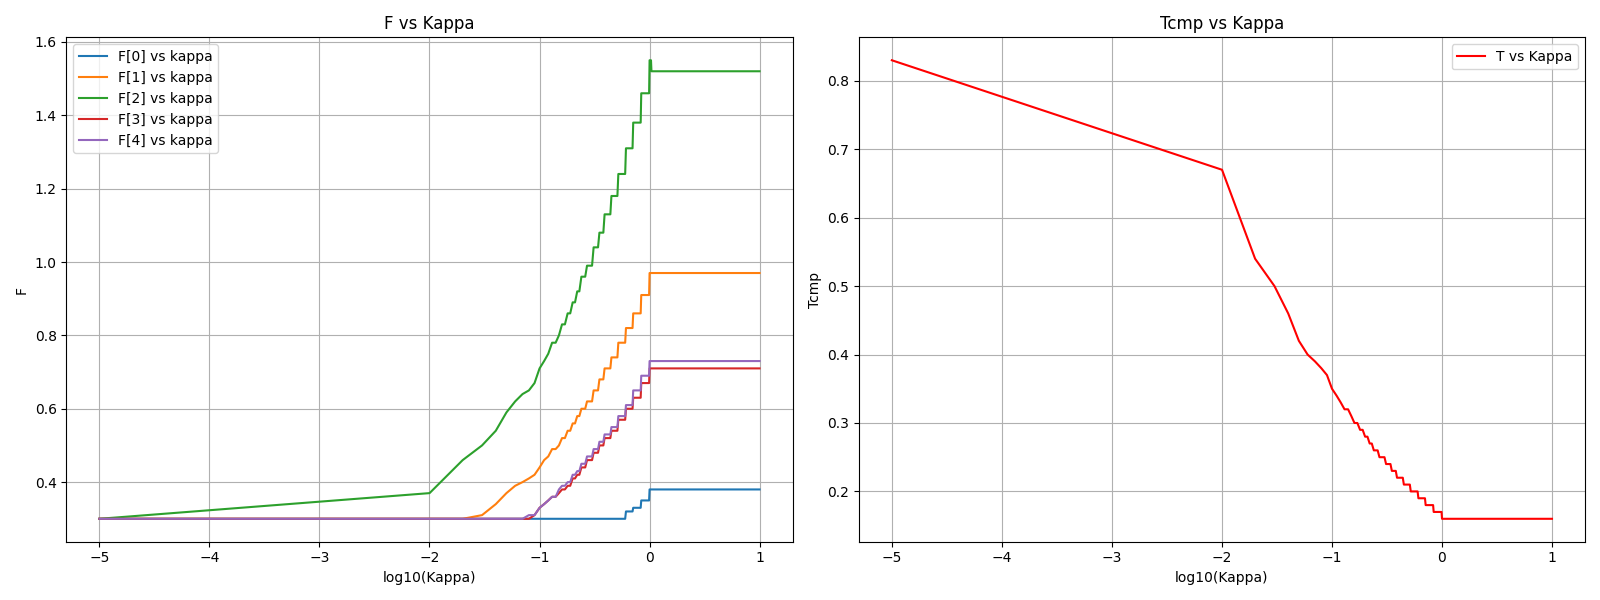
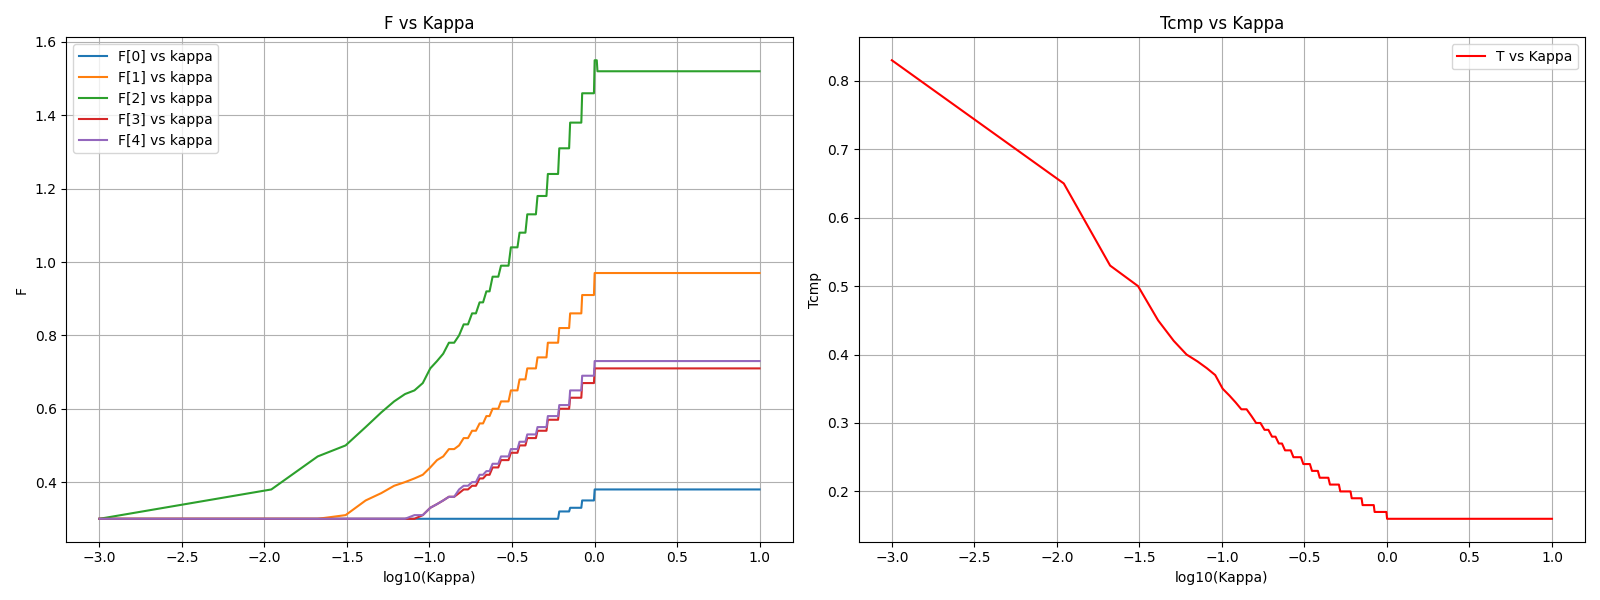
inicio correcao sub2

diff --git a/analisys.py b/analisys.py
@@ -37,26 +37,25 @@ def plot_sub1(df_sub1):
 
 
 def plot_sub2(df_sub2):
-    plt.figure(figsize=(10, 6))
+    fig,(ax1,ax2)=plt.subplots(1, 2, figsize=(16, 6))
     t_array = np.array(df_sub2['t'].tolist())  # shape: (len(kappa), n_ues)
 
     for i in range(t_array.shape[1]):
-        plt.plot(np.log10(df_sub2['kappa']), t_array[:, i], label=f't[{i}] vs kappa')
-    plt.xlabel('Kappa')
-    plt.ylabel('t')
-    plt.title('t vs Kappa')
-    plt.legend()
-    plt.grid()
-    plt.figure(4, figsize=(10, 6))
+        ax1.plot(np.log10(df_sub2['kappa']), t_array[:, i], label=f't[{i}] vs kappa')
+    ax1.set_xlabel('Kappa')
+    ax1.set_ylabel('t')
+    ax1.set_title('t vs Kappa')
+    ax1.legend()
+    ax1.grid()
     #Plot Tcom x log10(k)
-    plt.plot(np.log10(df_sub2['kappa']), df_sub2['Tcom'], label='T vs Kappa')
-    plt.xlabel('Kappa')
-    plt.ylabel('Tcom')
-    plt.title('Tcom vs Kappa')
-    plt.legend()
-    plt.grid()
+    ax2.plot(np.log10(df_sub2['kappa']), df_sub2['Tcom'], label='T vs Kappa')
+    ax2.set_xlabel('Kappa')
+    ax2.set_ylabel('Tcom')
+    ax2.set_title('Tcom vs Kappa')
+    ax2.legend()
+    ax2.grid()
     # Ajusta o layout para evitar sobreposição de títulos e eixos
     plt.tight_layout()
-
-    # Salva a figura em um arquivo
     plt.savefig('sub_2.png')
+    plt.show()
+    

diff --git a/teste.py b/teste.py
@@ -1,7 +1,34 @@
+import constants as ctt
 import numpy as np
 
-a=np.array([1,2,3,5,6])
-b=np.array([1,2,3,4,5])*(-1)
-mask=a>3
-a[mask]=b[mask]
-print(a)
+np.random.seed(42)
+#pos
+d=np.random.uniform(*ctt.d_range,size=ctt.N)
+
+#Com
+# --- CORREÇÕES DE UNIDADE ---
+# Converte a largura de banda B de MHz para Hz
+B = ctt.B * 1e6
+# Usa o valor de sigma para N0, que já está em Watts, conforme o artigo
+N0 = ctt.sigma
+# Converte o ganho do canal g0 de dB para escala linear
+g0_linear = 10**(ctt.g0 / 10)
+# Converte o tamanho do update 's' de KB para nats (conforme especificado no artigo)
+# O artigo menciona s_n = 25,000 nats, que é ~4.5 KB
+s_nats = 25000
+# -------------------------
+
+pmin=ctt.p_range[0]*np.ones(ctt.N)
+pmax=ctt.p_range[1]*np.ones(ctt.N)
+
+# Calcula h usando o g0 em escala linear
+h=g0_linear*(ctt.d0/d)**4
+# Define s como um array numpy em nats
+s=s_nats*np.ones(ctt.N)
+
+
+#Cmp
+D=np.random.uniform(*ctt.D_range,size=ctt.N)*10**6  # Convert MB to bits
+c=np.random.uniform(*ctt.c_range,size=ctt.N)
+fmin=ctt.fmin*np.ones(ctt.N) * 10**9  # GHz to Hz
+fmax=np.random.uniform(*ctt.fmax_range,size=ctt.N)*10**9  # GHz to Hz

diff --git a/inputs.py b/inputs.py
@@ -6,15 +6,20 @@ np.random.seed(42)
 d=np.random.uniform(*ctt.d_range,size=ctt.N)
 
 #Com
-B=ctt.B
+B=ctt.B*1e6  # Convert MHz to Hz
 pmin=ctt.p_range[0]*np.ones(ctt.N)
 pmax=ctt.p_range[1]*np.ones(ctt.N)
 h=ctt.g0*(ctt.d0/d)**4
+s=ctt.s*np.ones(ctt.N)*1000  # Convert KB to Bytes
+
+N0=ctt.sigma  # Use sigma as N0 in Watts
+g0_linear = 10**(ctt.g0 / 10)  # Convert dB to linear scale
+h=g0_linear*(ctt.d0/d)**4
+s=25000*np.ones(ctt.N)  # Convert KB to nats
 
 #Cmp
 D=np.random.uniform(*ctt.D_range,size=ctt.N)*10**6  # Convert MB to bits
 c=np.random.uniform(*ctt.c_range,size=ctt.N)
-s=ctt.s*np.ones(ctt.N)*1000  # Convert KB to Bytes
 fmin=ctt.fmin*np.ones(ctt.N) * 10**9  # GHz to Hz
 fmax=np.random.uniform(*ctt.fmax_range,size=ctt.N)*10**9  # GHz to Hz
 

diff --git a/sub2.py b/sub2.py
@@ -4,20 +4,21 @@ import numpy as np
 from scipy.special import lambertw
 
 def get_tmax(s,B,h,N0,pmin):
-    return s/(B * np.log2(1 + (pmin * h) / N0))
+    return s/(B * np.log(1 + (pmin * h) / N0))
 
 def get_tmin(s,B,h,pmax,N0):
-    return s/(B * np.log2(1 + (pmax * h) / N0))
+    return s/(B * np.log(1 + (pmax * h) / N0))
 
 def g(kappa,s,B,N0,h):
     num=s/B
     x= ((kappa*h)/N0-1)/np.e
-    W= lambertw(x)
+    W= lambertw(x).real
     return num/(1+ W)
 
 def g_inverse(t,s,B,N0,h):
     y= (s/(B*t))-1
-    k=(N0/h)*(1+(y-1)*np.e**y)
+    # k=(N0/h)*(1+(y-1)*np.e**y)
+    k = (N0/h)*(1 + y*np.exp(y+1))
     return k
 
 def solve_SUB2(N,kappa,s,B,N0,h,pmin,pmax):

diff --git a/main.py b/main.py
@@ -6,7 +6,7 @@ from sub1 import solve_SUB1
 from sub2 import solve_SUB2
 from analisys import plot_sub1, plot_sub2
 
-kappa_i=1E-5
+kappa_i=1E-3
 kappa_f=1E1
 d_kappa=np.linspace(kappa_i, kappa_f, num=1000)
 
@@ -18,7 +18,7 @@ for k in d_kappa:
     sub1['Tcmp'].append(T_cmp)
     sub1['kappa'].append(k)
 
-    Tcom, t = solve_SUB2(ctt.N, kappa=k, s=inp.s, B=ctt.B, N0=ctt.N0, h=inp.h, pmin=inp.pmin, pmax=inp.pmax)
+    Tcom, t = solve_SUB2(ctt.N, kappa=k, s=inp.s, B=inp.B, N0=inp.N0, h=inp.h, pmin=inp.pmin, pmax=inp.pmax)
     sub2['Tcom'].append(Tcom)
     sub2['t'].append(t)
     sub2['kappa'].append(k)

diff --git a/constants.py b/constants.py
@@ -8,10 +8,10 @@ d0=1
 N0= -81 #dB
 B=1 #Mhz
 p_range=(0.2,1) #W
+sigma=10E-10 #W
 
 
 #Cmp
-sigma=10E-10 #W
 D_range=(5,10) #MB
 c_range=(10,30) #cycles/bit
 fmax_range=(1,2) #GHz
